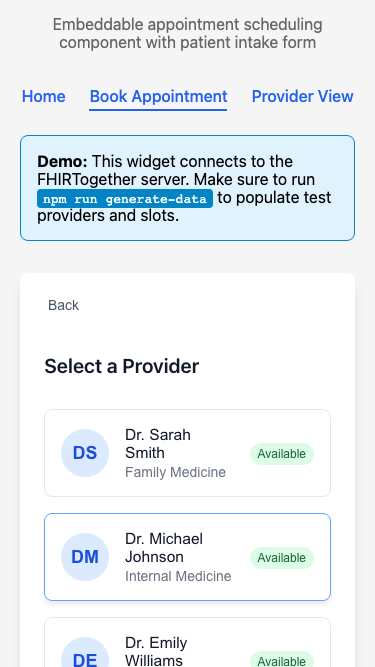
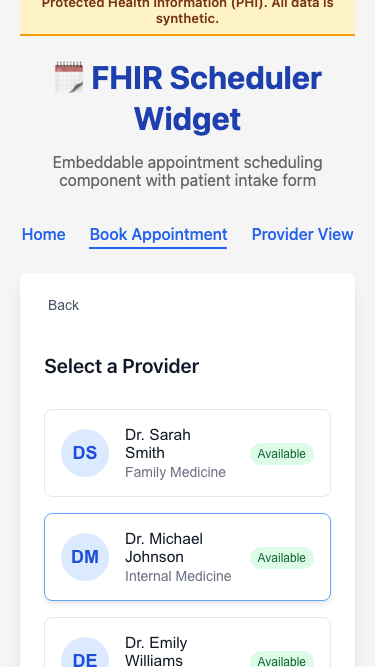
docs: rewrite welcome page and add architecture diagram
- Rewrite public/index.html with mission/vision content, PHI trap-door
  messaging, and HL7v2-to-FHIR bridging explanation
- Add architecture diagram (public/images/architecture.png) showing
  firewall boundary between provider network and external consumers
- Update README.md to use the architecture PNG with Mermaid fallback
- Hyperlink Schedule/Slot/Appointment to Swagger docs sections
- Remove redundant demo-note and info-box from scheduler HTML pages
- Add /public/ to auth public path prefixes so static assets load

Changed region(s): [[0.0293, 0.0, 0.968, 0.3898], [0.9387, 0.2099, 0.968, 0.2399], [0.0293, 0.2099, 0.0587, 0.2399]]

diff --git a/public/index.html b/public/index.html
@@ -200,28 +200,67 @@
       </a>
     </nav>
 
-    <section class="welcome-section" aria-label="Available FHIR endpoints">
-      <h3>FHIR Endpoints</h3>
+    <section class="welcome-section" aria-label="Why FHIRTogether">
+      <h3>Why FHIRTogether?</h3>
+      <p style="font-size:0.92rem; color:var(--mieweb-muted-foreground);">
+        Healthcare scheduling shouldn&rsquo;t be this hard. Providers, resources, and patients
+        deserve frictionless coordination &mdash; yet most systems still rely on phone calls, fax
+        machines, and proprietary interfaces that don&rsquo;t talk to each other.
+      </p>
+      <p style="font-size:0.92rem; color:var(--mieweb-muted-foreground);">
+        At <a href="https://bluehive.com" style="color:var(--mieweb-primary-600);">BlueHive</a>, our mission is to
+        remove friction from healthcare collaboration. FHIRTogether is our open-source answer to the
+        scheduling interoperability gap: a gateway that speaks both legacy HL7v2 and modern FHIR R4
+        so the right patient reaches the right provider at the right time.
+      </p>
+      <p style="font-size:0.92rem; color:var(--mieweb-muted-foreground);">
+        Privacy is baked into the architecture. FHIRTogether follows a <strong>trap-door model</strong>
+        for patient data: PHI enters via booking but is <strong>never echoed back</strong> in API
+        responses, provider views, or confirmation screens. Data is stored only long enough to relay
+        to the receiving system &mdash; minimizing the HIPAA blast radius and ensuring FHIRTogether
+        never becomes a system of record for protected health information.
+      </p>
+    </section>
+
+    <section class="welcome-section" aria-label="Architecture overview" style="text-align:center;">
+      <img src="/public/images/architecture.png"
+           alt="FHIRTogether architecture — EHR systems behind the firewall connect through the FHIRTogether Synapse Gateway to the scheduling broker and consumer apps outside the firewall"
+           style="max-width:100%; height:auto; border-radius:8px;" />
+    </section>
+
+    <section class="welcome-section" aria-label="Bridging HL7v2 and FHIR">
+      <h3>Bridging HL7v2 &amp; FHIR Scheduling</h3>
+      <p style="font-size:0.92rem; color:var(--mieweb-muted-foreground);">
+        If you&rsquo;ve worked with HL7v2, you know <strong>SIU messages</strong> (S12 book, S13
+        reschedule, S15 cancel) handle <em>appointments</em> &mdash; committed time blocks. But
+        HL7v2 has <strong>no standard for publishing availability</strong>. Schedules and open slots
+        are managed outside the wire protocol, buried in each EHR&rsquo;s proprietary configuration.
+      </p>
+      <p style="font-size:0.92rem; color:var(--mieweb-muted-foreground);">
+        FHIR R4 fills that gap with three resources that model the full scheduling lifecycle:
+      </p>
       <div class="welcome-endpoints">
-        <code>GET /Schedule</code>  <span>Provider schedule &amp; availability management</span>
-        <code>GET /Slot</code>      <span>Time-slot availability queries</span>
-        <code>GET /Appointment</code> <span>Appointment booking &amp; management</span>
-        <code>POST /hl7/siu</code>  <span>HL7v2 SIU message ingestion</span>
-        <code>GET /Directory</code> <span>Public provider directory</span>
-        <code>GET /System</code>    <span>System registration &amp; management</span>
-        <code>POST /Import</code>   <span>Bulk FHIR resource import</span>
-        <code>GET /health</code>    <span>Server health check</span>
+        <code><a href="/docs#/Schedule" style="color:inherit;text-decoration:none;">Schedule</a></code> <span>Defines <em>availability</em> for a resource (provider, room, device) &mdash; the piece HL7v2 never had</span>
+        <code><a href="/docs#/Slot" style="color:inherit;text-decoration:none;">Slot</a></code>     <span>Individual bookable time windows within a Schedule &mdash; <code>free</code> or <code>busy</code></span>
+        <code><a href="/docs#/Appointment" style="color:inherit;text-decoration:none;">Appointment</a></code> <span>A committed booking that consumes a Slot &mdash; the FHIR equivalent of an SIU^S12</span>
       </div>
+      <p style="font-size:0.92rem; color:var(--mieweb-muted-foreground); margin-top:0.75rem;">
+        FHIRTogether translates between these worlds: inbound HL7v2 SIU messages become FHIR
+        Appointments, while Schedules and Slots are published via the
+        <a href="https://github.com/smart-on-fhir/smart-scheduling-links/blob/master/specification.md"
+           style="color:var(--mieweb-primary-600);">SMART Scheduling Links</a>
+        <code>$bulk-publish</code> endpoint for broad discovery.
+      </p>
     </section>
 
     <section class="welcome-section" aria-label="About this project">
       <h3>About</h3>
       <p style="font-size:0.92rem; color:var(--mieweb-muted-foreground);">
-        FHIRTogether bridges legacy HL7v2 EHR systems and modern FHIR R4 clients,
-        providing a pluggable scheduling gateway with SQLite-backed storage.
-        It supports Schedule, Slot, and Appointment resources along with HL7v2 SIU
-        message translation &mdash; making it easy to integrate scheduling into any
-        healthcare workflow.
+        FHIRTogether is a FHIR-compliant scheduling gateway with a pluggable SQLite-backed store,
+        embeddable scheduling widget, and built-in HL7v2 SIU message translation. Explore the
+        <a href="/docs" style="color:var(--mieweb-primary-600);">API Documentation</a> to see every
+        endpoint, or try the <a href="/demo" style="color:var(--mieweb-primary-600);">Scheduler Demo</a>
+        to book an appointment end-to-end.
       </p>
     </section>
   </main>

diff --git a/packages/fhir-scheduler/demo.html b/packages/fhir-scheduler/demo.html
@@ -78,11 +78,6 @@
     <div id="scheduler-container">
       <div id="app"></div>
     </div>
-    
-    <div class="demo-note">
-      <strong>Demo:</strong> This widget connects to the FHIRTogether server at the current origin (localhost:4010 for local development).
-      Make sure to run <code>npm run generate-data</code> to populate test providers and slots.
-    </div>
   </div>
 
   <script src="https://unpkg.com/react@18/umd/react.production.min.js" crossorigin></script>

diff --git a/packages/fhir-scheduler/index.html b/packages/fhir-scheduler/index.html
@@ -90,11 +90,6 @@
     <a href="./provider-view.html">Provider View</a>
   </nav>
 
-  <div class="info-box">
-    <strong>Demo:</strong> This widget connects to the FHIRTogether server. 
-    Make sure to run <code>npm run generate-data</code> to populate test providers and slots.
-  </div>
-
   <div id="scheduler-root">
     <fhir-scheduler id="scheduler" fhir-base-url="" hold-duration="5"></fhir-scheduler>
   </div>

diff --git a/src/auth/apiKeyAuth.ts b/src/auth/apiKeyAuth.ts
@@ -19,6 +19,7 @@ const PUBLIC_PATH_PREFIXES = [
   '/health',
   '/docs',
   '/demo',
+  '/public/',
   '/scheduler/',
   '/Directory',
   '/System/register',

diff --git a/README.md b/README.md
@@ -69,14 +69,25 @@ flowchart LR
 - 🤖 **MCP server** — expose scheduling tools to LLM agents via [Model Context Protocol](MCP_SERVER.md)
 - ⚡ Fastify-based, modern TypeScript stack
 
+<img src="public/images/architecture.png" alt="FHIRTogether architecture — EHR systems behind the firewall connect through the FHIRTogether Synapse Gateway to the scheduling broker and consumer apps outside the firewall" width="800">
+
+<details>
+<summary>Text version of the architecture diagram</summary>
+
 ```mermaid
 flowchart LR
-  A[Legacy EHR]
-  B[FHIRTogether Synapse Gateway]
-  C[Scheduling Broker - BlueHive]
-  D[Users and Provider Apps]
-  E[New System — HL7]
-  F[New System — REST]
+  subgraph internal["🏥 Inside the Firewall"]
+    A[Legacy EHR]
+    E[New System — HL7]
+    F[New System — REST]
+  end
+
+  B[🔗 FHIRTogether Synapse Gateway]
+
+  subgraph external["🌐 Outside the Firewall"]
+    C[Scheduling Broker - BlueHive]
+    D[Users and Provider Apps]
+  end
 
   E -->|SIU with MSH-4/MSH-8 — auto-registers| B
   F -->|POST /System/register — TLS verify| B
@@ -87,7 +98,11 @@ flowchart LR
   D -->|Discover availability and request booking| C
   D -->|GET /Directory — public| B
   C -->|Notifications and confirmations| D
+
+  style internal fill:#fef3c7,stroke:#f59e0b
+  style external fill:#dbeafe,stroke:#3b82f6
 ```
+</details>
 
 ---
 
